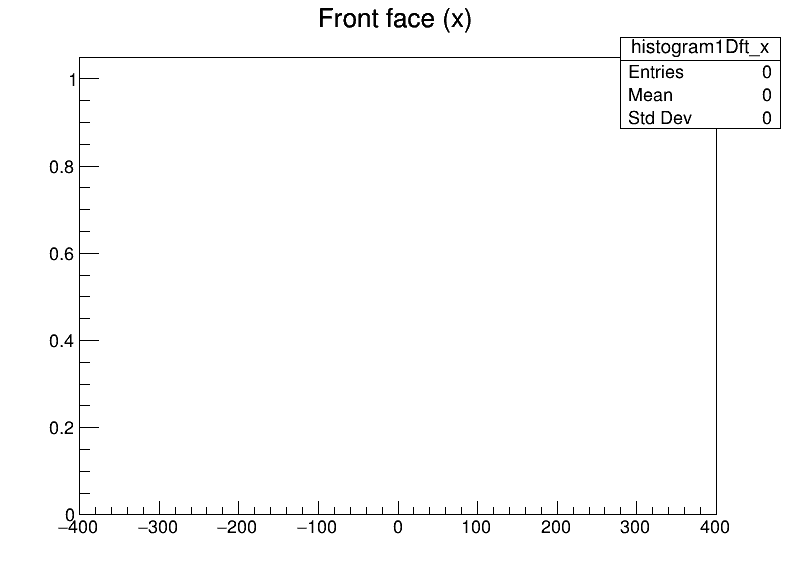
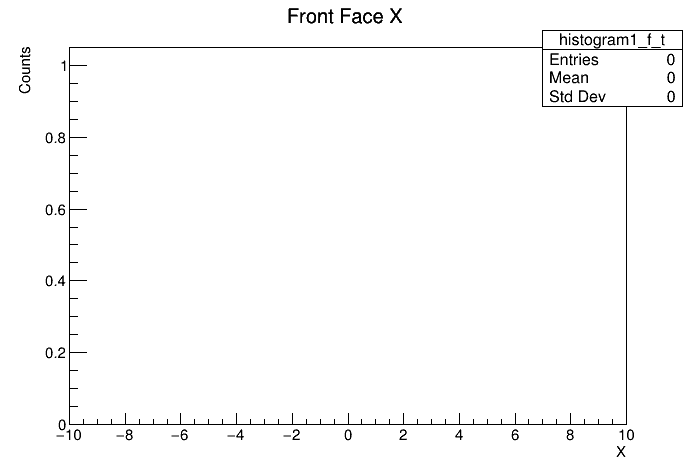
Histograms?

diff --git a/CRT_Dataset2/ChatGPTCode.C b/CRT_Dataset2/ChatGPTCode.C
@@ -1,0 +1,71 @@
+#include "TChain.h"
+#include "TFile.h"
+#include "TH1F.h"
+#include "TH2F.h"
+#include "TCanvas.h"
+#include <iostream>
+
+void ChatGPTCode() {
+	TChain chain("crtana/tree"); // Ensure "myTree" is the correct name of your TTree
+	chain.Add("/pnfs/sbnd/persistent/users/hlay/crt_comm_summer_2024/*crtana.root"); // Replace with your file path pattern
+	TH1F *histogram1_f_t = new TH1F("histogram1_f_t", "Front Face X;X;Counts", 100, -10, 10);
+	TH1F *histogram2_f_t = new TH1F("histogram2_f_t", "Front Face Y;Y;Counts", 100, -10, 10);
+	TH2F *histogram3_f_t = new TH2F("histogram3_f_t", "Front Face XY;X;Y;Counts", 100, -10, 10, 100, -10, 10);
+    	TCanvas *c1_f_t = new TCanvas("c1_f_t", "Front Face X");
+	TCanvas *c2_f_t = new TCanvas("c2_f_t", "Front Face Y");
+	TCanvas *c3_f_t = new TCanvas("c3_f_t", "Front Face XY");
+
+	std::vector<double> *cl_sp_x = nullptr;
+    	std::vector<double> *cl_sp_y = nullptr;
+    	std::vector<double> *cl_sp_z = nullptr;
+    	std::vector<double> *cl_sp_ts1 = nullptr;
+    	std::vector<bool> *cl_has_sp = nullptr;
+	chain.SetBranchAddress("cl_has_sp", &cl_has_sp);
+    	chain.SetBranchAddress("cl_sp_x", &cl_sp_x);
+    	chain.SetBranchAddress("cl_sp_y", &cl_sp_y);
+    	chain.SetBranchAddress("cl_sp_z", &cl_sp_z);
+    	chain.SetBranchAddress("cl_sp_ts1", &cl_sp_ts1);
+
+	Long64_t nEntries = chain.GetEntries();
+    	Long64_t nMaxEntries = 1000;
+
+	for (Long64_t i = 0; i < nEntries && i < nMaxEntries; ++i) {
+        	chain.GetEntry(i);
+		if (cl_has_sp == nullptr || cl_has_sp->size() == 0 || !cl_has_sp->at(0)) {
+            		continue;
+        	}
+		
+		for (size_t j = 0; j < cl_sp_x->size(); ++j) {
+            		double t1 = cl_sp_ts1->at(j);
+            		double x = cl_sp_x->at(j);
+            		double y = cl_sp_y->at(j);
+            		double z = cl_sp_z->at(j);
+
+			std::cout << "Entry " << i << ", Hit " << j << ": t1=" << t1 << ", x=" << x << ", y=" << y << ", z=" << z << std::endl;
+			if (1529.8e3 < t1 && t1 < 1532.8e3) {
+				if (y > -350) {  // cut off feet of detector
+                    			if (-250 < z && z < -150) {
+                        			histogram1_f_t->Fill(x);
+                        			histogram2_f_t->Fill(y);
+                        			histogram3_f_t->Fill(x, y);
+                    			}
+                		}
+            		}
+        	}
+    	}
+
+
+	c1_f_t->cd();
+    	histogram1_f_t->Draw();
+    	c2_f_t->cd();
+    	histogram2_f_t->Draw();
+    	c3_f_t->cd();
+    	c3_f_t->SetLogz();
+    	histogram3_f_t->Draw("COLZ");	
+
+	c1_f_t->SaveAs("Front_face_x_t_all.png");
+    	c2_f_t->SaveAs("Front_face_y_t_all.png");
+    	c3_f_t->SaveAs("Front_face_t_all.png");
+
+}
+
